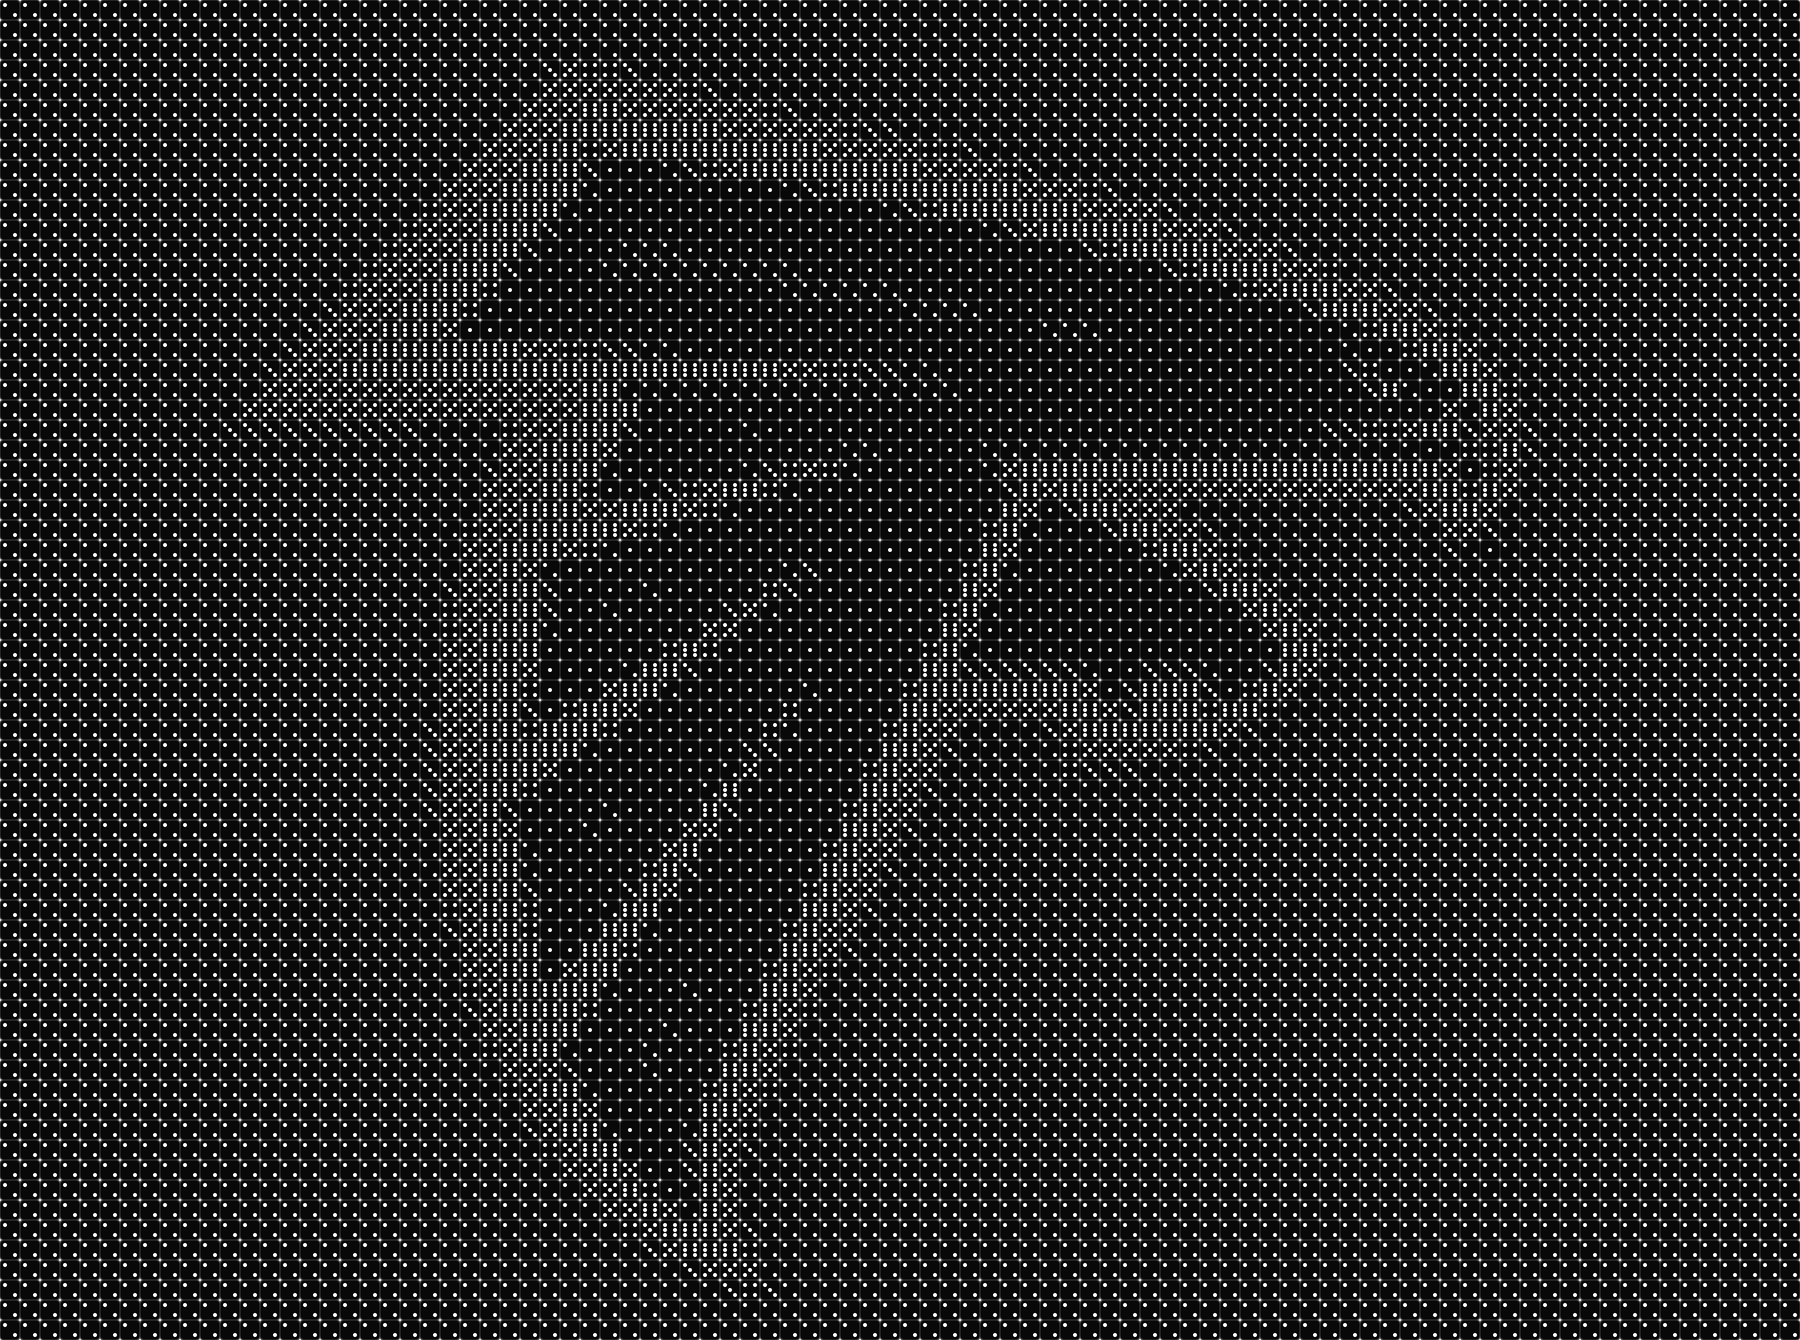
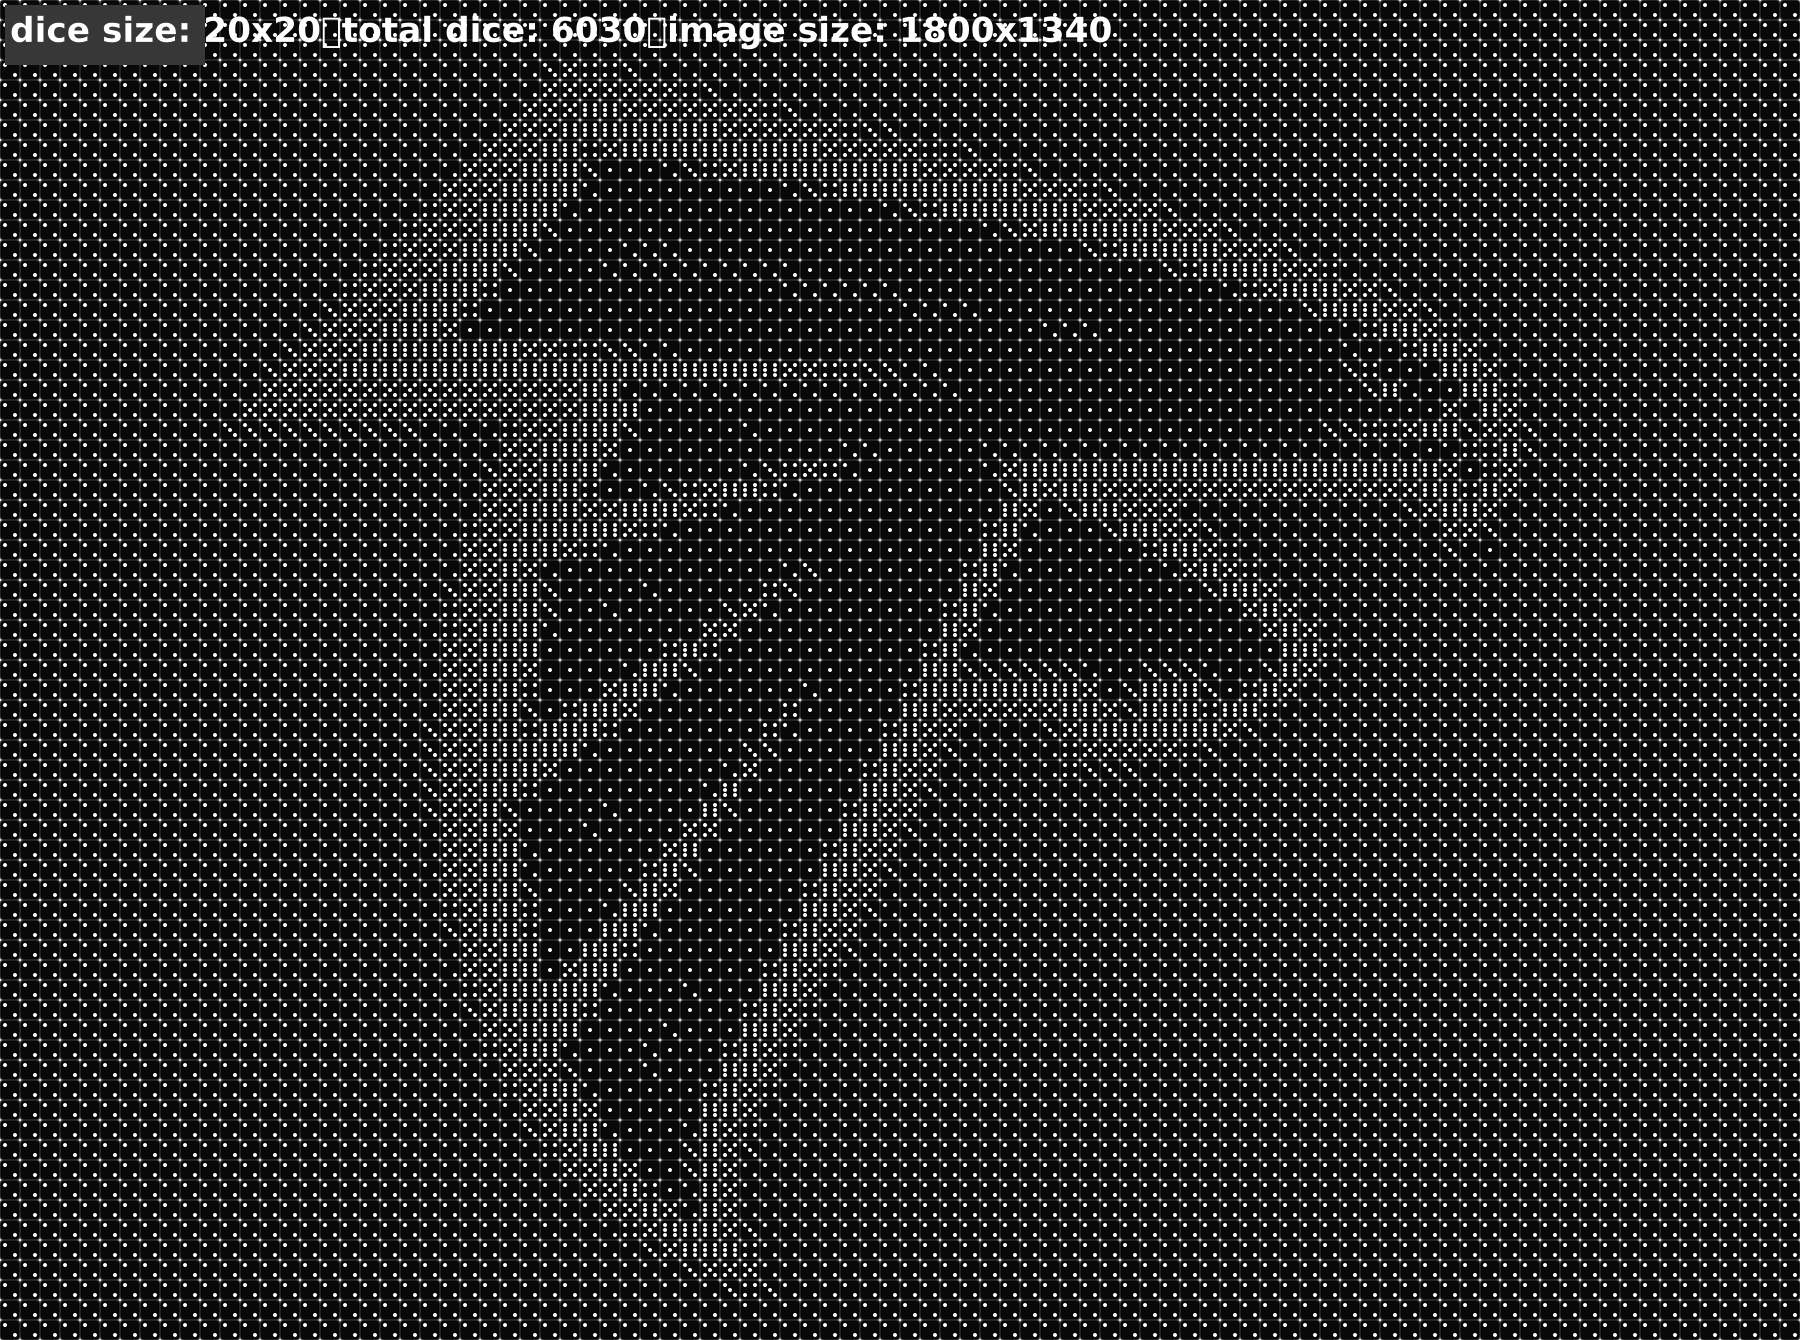
goodnight

Changed region(s): [[0.0, 0.0, 0.6222, 0.0612]]

diff --git a/src/main.rs b/src/main.rs
@@ -5,7 +5,7 @@ use std::path::Path; // For checking paths, creating dirs
 use image::{Rgba};
 use imageproc::drawing::{draw_filled_rect_mut, draw_text_mut};
 use imageproc::rect::Rect;
-use ab_glyph::{FontVec, ScaleFont, PxScale};
+use ab_glyph::{FontVec, PxScale, ScaleFont, Font};
 
 // Simplified DiceSides to not hold the image directly
 #[derive(Debug, Clone, Copy, PartialEq, Eq, Hash)] // Added derives for mapping
@@ -240,7 +240,8 @@ fn add_reference_text(
     full_image_size: (u32, u32),
 ) {
     // load a font
-    let font_data = include_bytes!("/usr/share/fonts/fontawesome-regular.ttf");
+    let font_data = std::fs::read("/usr/share/fonts/TTF/DejaVuSans-Bold.ttf")
+        .expect("Failed to load font file");
     let font = FontVec::try_from_vec(font_data.to_vec()).expect("font loading failed");
 
     // build the overlay text
@@ -250,17 +251,17 @@ fn add_reference_text(
     );
 
     // text style
-    let scale = PxScale::from(15.0);
-    let font = font.as_scaled(scale);
+    let scale = PxScale::from(40.0);
+    let font = font; // Use FontVec directly without scaling
     let text_color = Rgba([255, 255, 255, 255]); // white text
     let background_color = Rgba([0, 0, 0, 200]); // semi-transparent black
 
     // estimate text box dimensions
     let text_width = 200;
-    let text_height = 50;
+    let text_height = 60;
 
     // draw a black rectangle behind the text
-    let rect = Rect::at(5, (image.height() - text_height - 5) as i32)
+    let rect = Rect::at(5, 5) // Top-left corner
         .of_size(text_width, text_height);
     draw_filled_rect_mut(image, rect, background_color);
 
@@ -269,8 +270,8 @@ fn add_reference_text(
         image,
         text_color,
         10, // x offset
-        (image.height() - text_height) as i32, // y offset
-        font,
+        10, // y offset
+        scale,
         &font,
         &text,
     );
